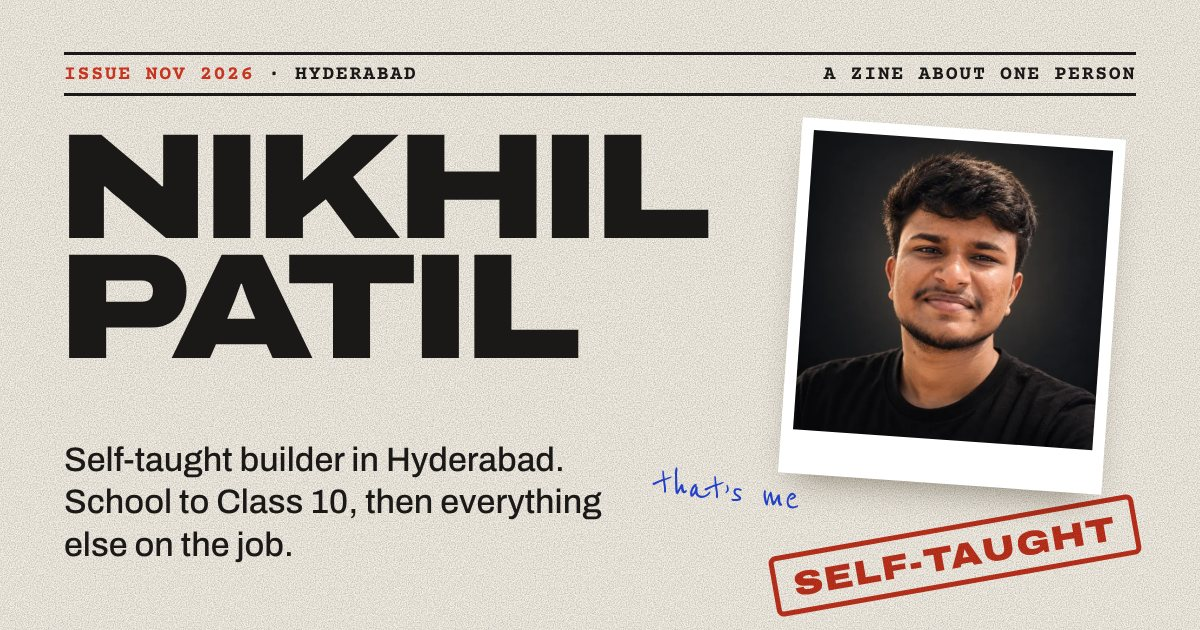
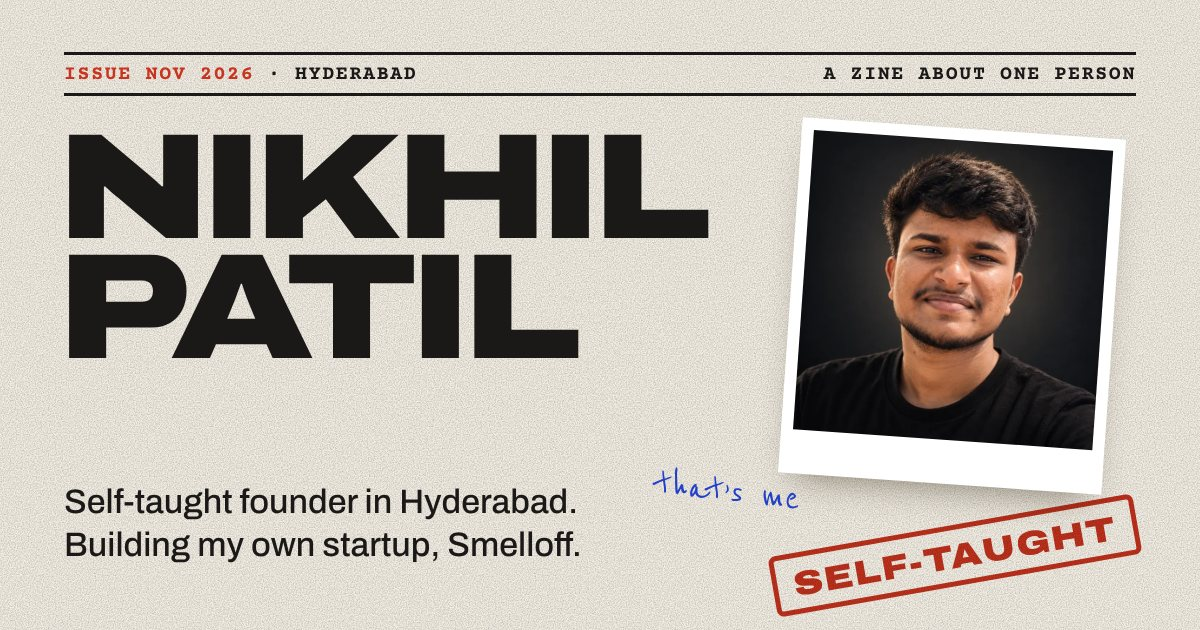
Personal site: founder-level detail only, no school history or job-by-job list
Owner's call: drop school (Class 10, no college) and the detailed early jobs
(shop counter, deliveries, floor work, the early-jobs photo). Work history is
now retail, cloud-kitchen operations, team lead, founder. About gains
"Self-taught" and "Before Smelloff"; the share image and the store's llms
founder block match. A test keeps the withdrawn details off the site.

Claude-Session: https://claude.ai/code/session_01UtiywQ3ckjXFzs473sWK26

Changed region(s): [[0.0308, 0.6937, 0.5242, 0.9048]]

diff --git a/personal-site/assets/css/site.css b/personal-site/assets/css/site.css
@@ -453,7 +453,7 @@ mark { background: linear-gradient(100deg, transparent .2em, var(--hi) .2em 96%,
 
 /* time card ----------------------------------------------------------- */
 .timecard { display: grid; gap: var(--s6); align-items: start; }
-@media (min-width: 900px) { .timecard { grid-template-columns: minmax(0, 1fr) 260px; gap: var(--s7); } }
+.timecard__card { max-width: 760px; }
 .timecard__card {
   background: #E9DDBF; color: #1A1917; padding: var(--s4) var(--s4) var(--s5); box-shadow: var(--shadow); rotate: -.4deg;
   background-image: repeating-linear-gradient(90deg, transparent 0 calc(100% - 1px), rgb(26 25 23 / .12) calc(100% - 1px));
@@ -469,8 +469,6 @@ mark { background: linear-gradient(100deg, transparent .2em, var(--hi) .2em 96%,
 .punch--today { background: linear-gradient(transparent 0 6px, rgb(255 228 90 / .55) 6px calc(100% - 6px), transparent 0); }
 .punch--today .punch__stamp { color: #2340C8; }
 .print { position: relative; rotate: 3deg; max-width: 260px; justify-self: center; }
-.print--early { width: 220px; }
-@media (min-width: 900px) { .print--early { width: 240px; margin-top: var(--s6); } }
 
 /* 8 ----------------------------------------------------------------- bench */
 .cards { display: grid; grid-template-columns: minmax(0, 1fr); gap: var(--s5); }

diff --git a/personal-site/scripts/og.html b/personal-site/scripts/og.html
@@ -19,7 +19,7 @@ mark { background: #FFE45A; padding: 0 .1em; }
 </style>
 <div class="strip"><span><b>Issue Nov 2026</b> · Hyderabad</span><span>A zine about one person</span></div>
 <h1><span>Nikhil</span><span>Patil</span></h1>
-<p>Self-taught builder in Hyderabad. School to Class 10, then everything else on the job.</p>
+<p>Self-taught founder in Hyderabad. Building my own startup, Smelloff.</p>
 <div class="photo"><img src="../assets/img/me/nikhil-patil.webp" alt=""></div>
 <div class="stamp">Self-taught</div>
 <div class="hand">that’s me</div>

diff --git a/CLAUDE.md b/CLAUDE.md
@@ -3213,3 +3213,16 @@ handle "NikhilxPatil" has no competition. "Nikhil" and "N" alone can't be ranked
 - Owner, off-site (the larger half): the same name, photo, one-line bio and
   `smelloff.in/NikhilPatil` link on X, Instagram, LinkedIn, Product Hunt, GitHub, Crunchbase;
   display name "Nikhil Patil" on each; GSC → Request indexing for the three pages.
+
+## Personal site: founder-level detail only (2026-11-09, owner: "info what a founder keep, don't wanna share too much … more professional and more human")
+He chose what to drop: **school history** (Class 10, no college) and the **job-by-job detail**
+(mobile shop counter, deliveries, cleaning and floor work, the early-jobs photo). This reverses
+the 2 Nov approval of "school up to Class 10". Kept by his choice: the anime shelf, the casual
+photos and his full legal name on About.
+- The work history is four lines: Retail → Cloud-kitchen operations (Zomato Everyday, about a
+  year and a half) → Team lead → Founder (`content/journey.json`, no photo; the time card is one
+  column). About has "Self-taught" and "Before Smelloff" instead of the school and jobs sections;
+  the college question is gone; `og.jpg` was re-rendered without the school line.
+- The store's `llms-full.txt` founder block says the same (`build-llms.mjs`).
+- `personal-site/test/site.test.mjs` fails if school, college, deliveries, cleaning/floor work
+  or the mobile shop come back on any page, Markdown twin or llms file.

diff --git a/docs/PERSONAL-CONTENT-SOURCE-MAP.md b/docs/PERSONAL-CONTENT-SOURCE-MAP.md
@@ -25,7 +25,7 @@ No connector exists for LinkedIn, Instagram or X in this session; nothing was lo
 
 - Name **Nikhil Patil**; full name **Jogdhande Nikhil Patil** (used publicly on smelloff.in, X, LinkedIn).
 - Based in **Hyderabad, Telangana, India** (city level only).
-- Self-taught; **school up to Class 10**, then learned on the job (approved 2 Nov 2026).
+- Self-taught. **Withdrawn on 9 Nov 2026 (his call: he doesn't want to share too much):** school history (Class 10, no college) and the job-by-job detail (mobile shop counter, deliveries, cleaning and floor work, the early-jobs photo). The site says only: retail, cloud-kitchen operations at Zomato Everyday, team lead, founder.
 - Work journey, **no dates**: mobile shop counter, deliveries, cloud-kitchen operations at Zomato
   Everyday (~1.5 years, public), asked for a chance at the computer (registers, spreadsheets), team
   lead (approved 2 Nov 2026).

diff --git a/docs/PERSONAL-SITE-DESIGN.md b/docs/PERSONAL-SITE-DESIGN.md
@@ -19,7 +19,7 @@ One long cover page that reads like an issue, plus four inner pages.
 | Cover | Name as the H1, one-sentence dek, collage of his photos and things, toys (Stamp, Tidy, Ring), printed table of contents |
 | 01 Now | One main thing + at most two on the side (his own rule) |
 | 02 Clocked in | Work journey as a time card |
-| 03 Self-taught syllabus | Selling, operations and web: what he taught himself after Class 10, each with where it shows |
+| 03 Self-taught syllabus | Selling, operations and web: what he taught himself, each with where it shows |
 | 04 Shelf | The anime cassette (the interests list was removed on 3 Nov 2026) |
 | 05 Things I've made | Startup (one card; the store-website and this-site cards were removed on 3 Nov 2026) |
 | 06 Take a card | Visiting card + .vcf download; every profile |

diff --git a/personal-site/README.md b/personal-site/README.md
@@ -7,7 +7,7 @@ nothing with the store's design.
 ```
 node build.mjs     # preview build → dist/NikhilPatil (+ dist/sitemap-nikhil-patil.xml)
 node serve.mjs     # http://localhost:4321/NikhilPatil
-node --test        # 15 tests (also run by the repo's root `npm test`)
+node --test        # tests (also run by the repo's root `npm test`)
 ```
 
 ## Files for AI assistants
